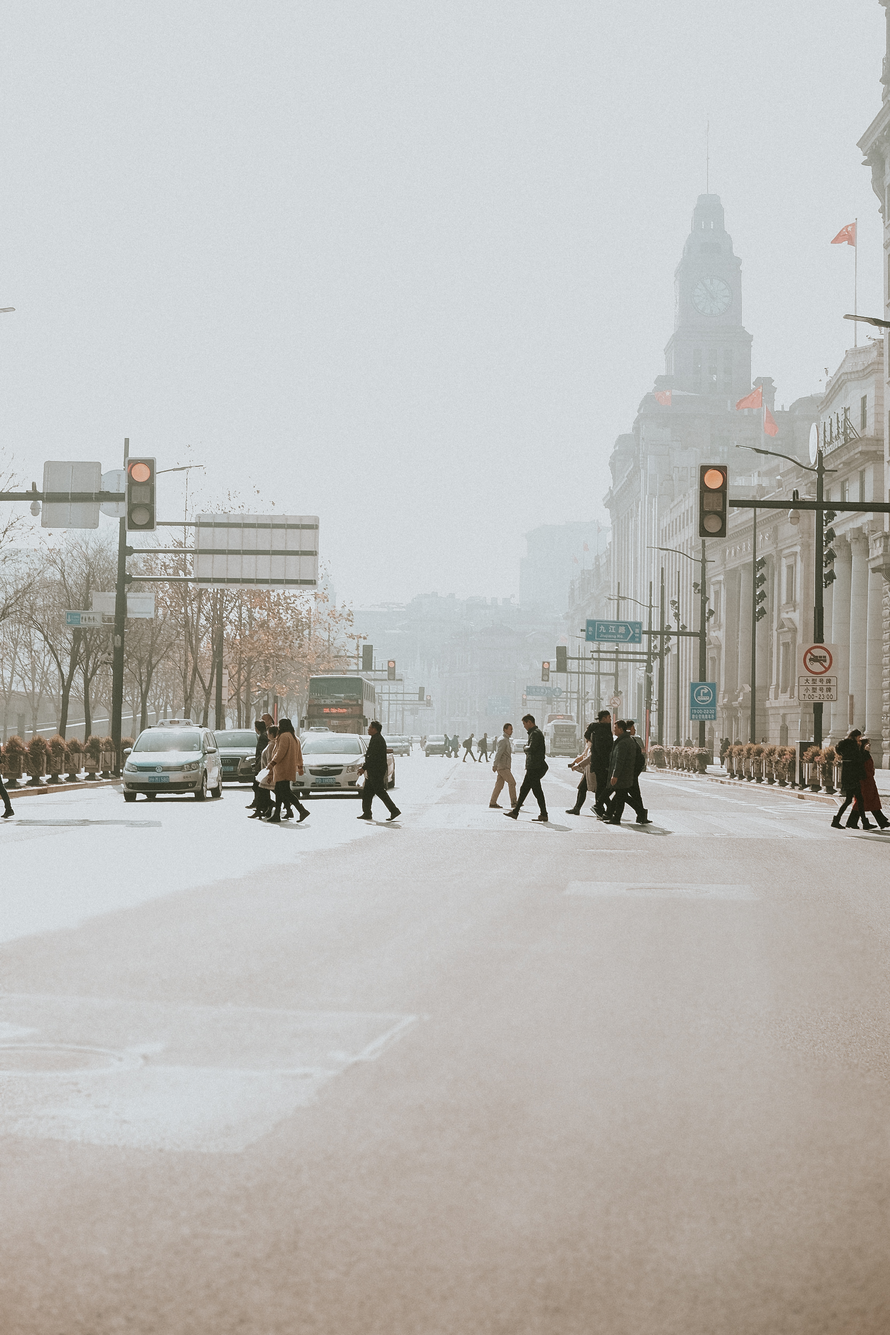
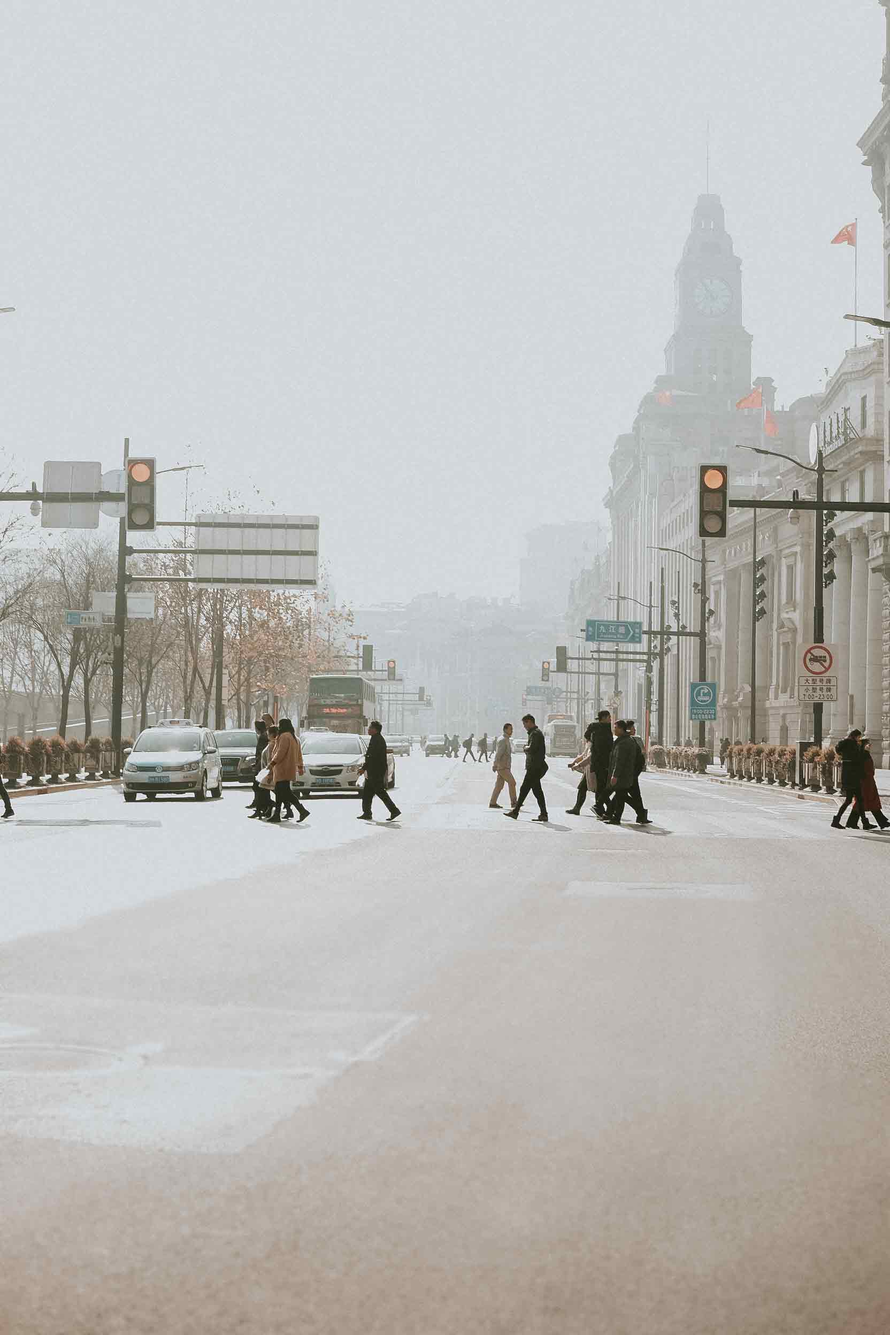
Compressed photos

diff --git a/index.html b/index.html
@@ -119,7 +119,7 @@
             bottom: 2vh;
             left: 5vw;
             color: #F5F5F5;
-            font-size: 6vw;
+            font-size: 20px;
         }
 
         #lower {
@@ -176,7 +176,7 @@
             <div class = "textTop">
                 theo azriel
             </div>
-            <img src = "assets/k (1 of 1).jpg" class = "photo" alt = "bajo" data-rellax-speed="0.5">
+            <img src = "assets/k-(1-of-1).jpg" class = "photo" alt = "bajo" data-rellax-speed="0.5">
 
             <div class="textBottom" id = "lower" data-rellax-speed="2">
                 safe
